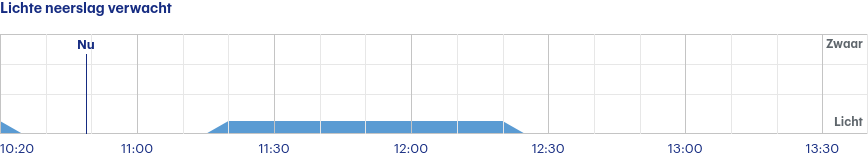
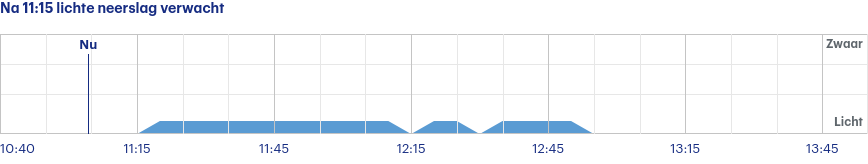
Latest scraping buienradar: Sun Aug  6 09:00:22 UTC 2023

diff --git a/scrapes/buienradar/buienradar-jette-3-uur.md b/scrapes/buienradar/buienradar-jette-3-uur.md
@@ -1,4 +1,4 @@
-Lichte neerslag verwacht
+Na 11:15 lichte neerslag verwacht
 
 ![](buienradar-jette-3-uur.png)
 
